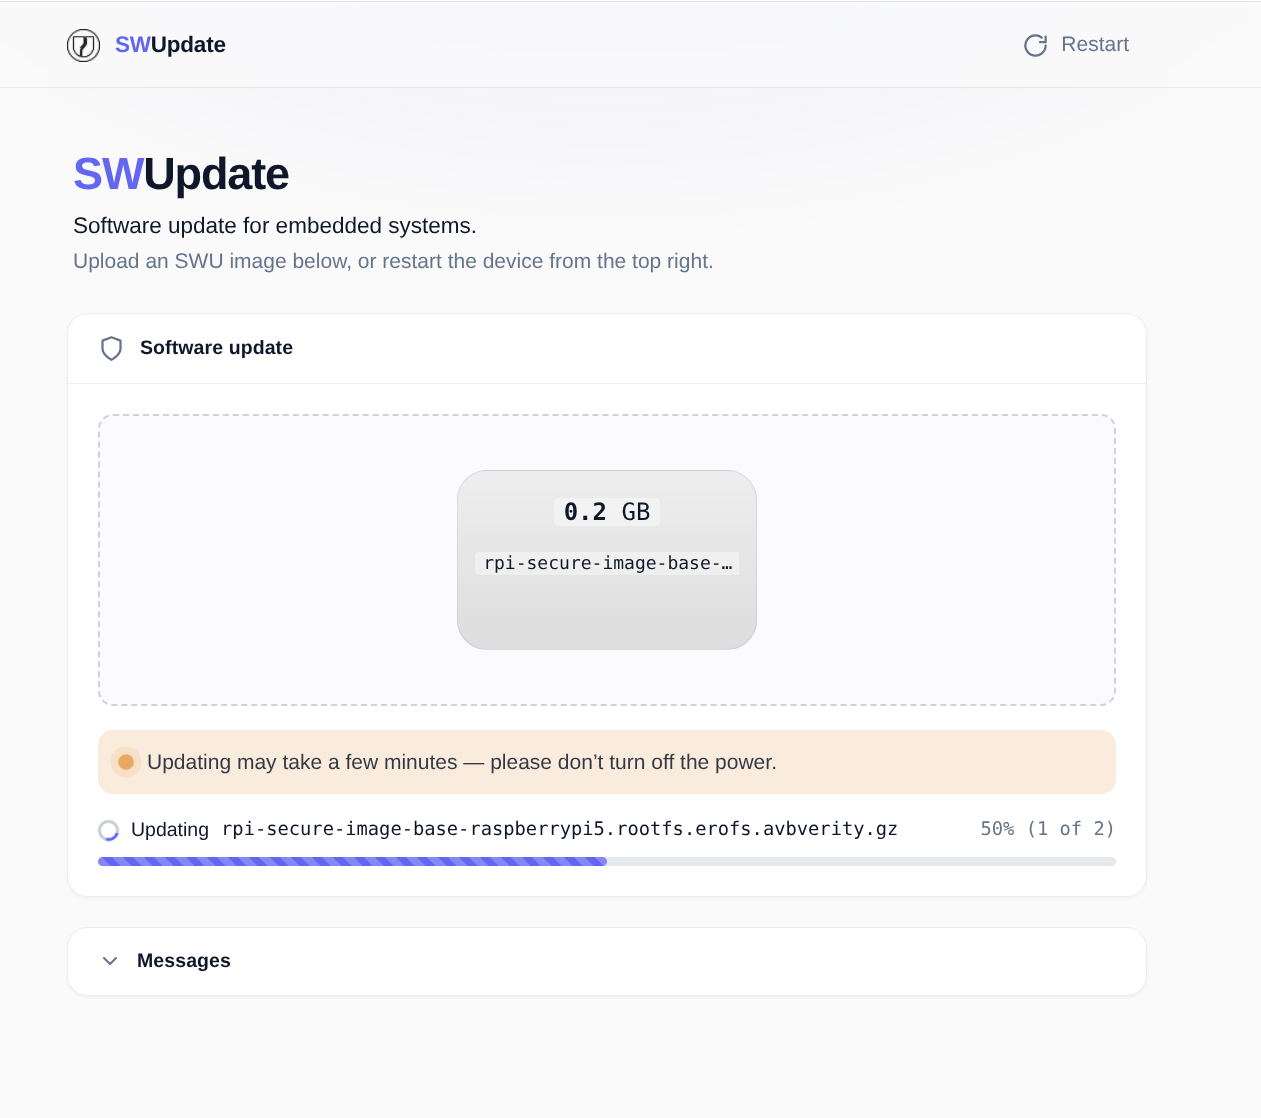
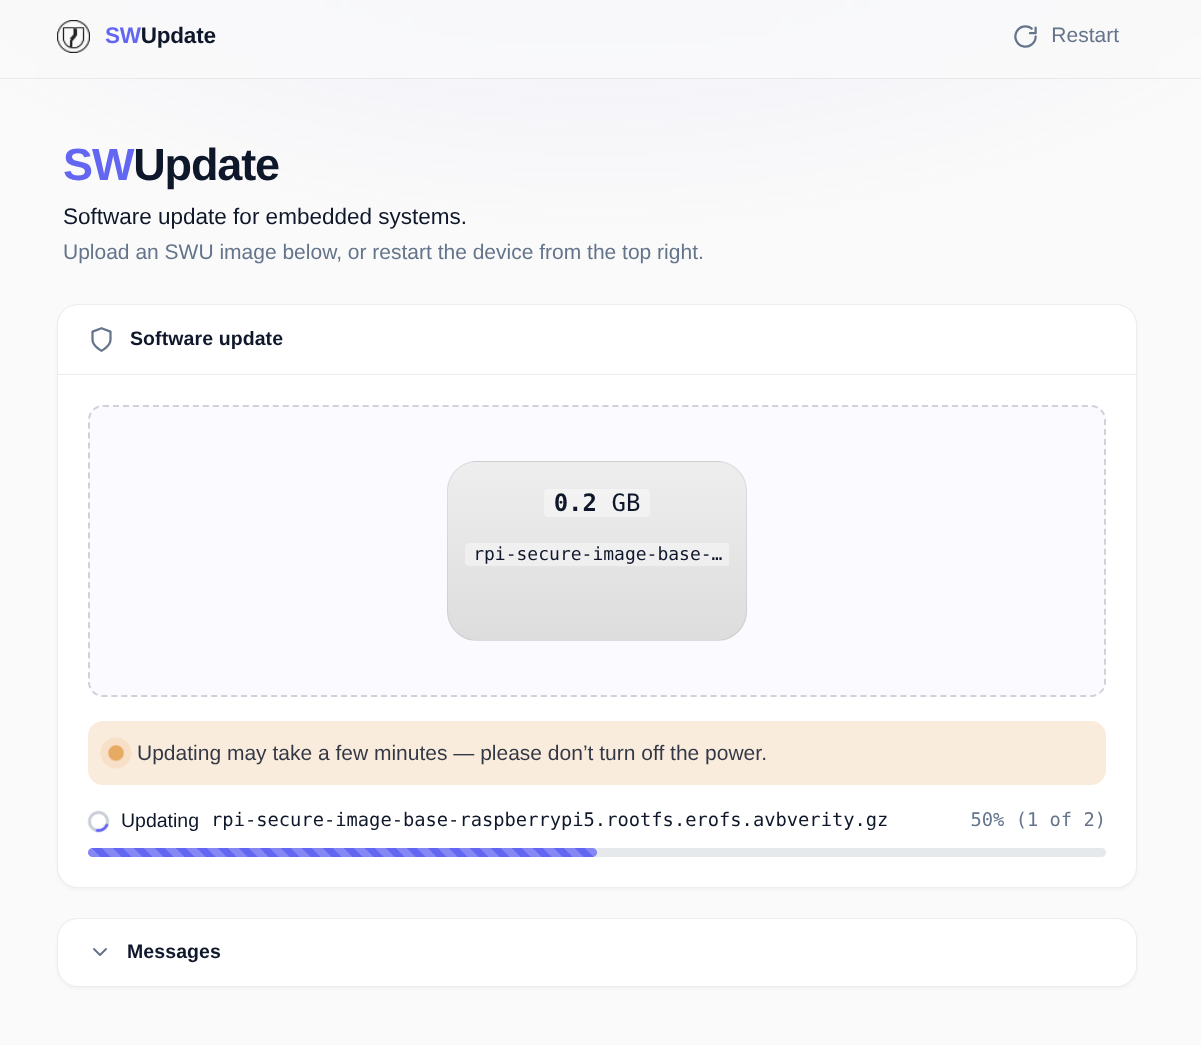
README: update

diff --git a/README.md b/README.md
@@ -153,7 +153,7 @@ build/tmp/deploy/images/<MACHINE>/rpi-secure-image-base-update-<MACHINE>.rootfs.
 
 <img src="img/swupdate.jpeg" alt="SWUpdate web interface" width="70%" />
 
-> **Note:** The EEPROM update are shipped as separate `.swu` file and can be applied independently: upload them one at a time so the EEPROM recovery flash does not consume the tryboot one-shot.
+> **Note:** The EEPROM update are shipped as separate `.swu` file and can be applied independently
 
 ## Layers dependencies
 
